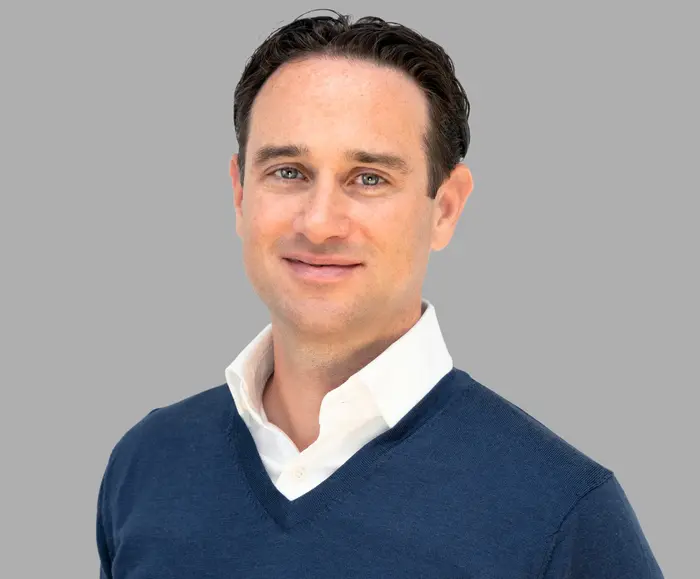
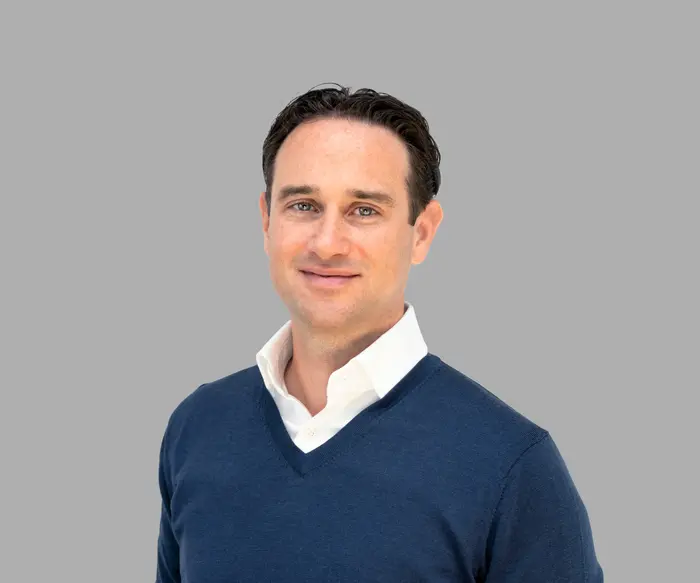
Give both portraits headroom so the hair is never cut
New portrait files from the original photographs: the grey studio
background is extended above the heads and the frame is cropped
wider, so Dr. Manuel Meder's and Dr. Michael Tal's hair shows whole.

Claude-Session: https://claude.ai/code/session_011hTmpdeiM8q9xcfzwJvZk6

diff --git a/meder-tal-v2/team.html b/meder-tal-v2/team.html
@@ -97,15 +97,15 @@
         <div class="btn-row"><a class="btn btn--primary" href="kontakt.html#anfrage">Erstgespräch vereinbaren<svg class="m-arrow" viewBox="0 0 12 12" aria-hidden="true"><path class="m-arrow__stem" d="M1 6h8"/><path class="m-arrow__head" d="M4.5 2.5 8 6l-3.5 3.5"/></svg></a><a class="btn btn--secondary" href="#meder">Die Partner ansehen</a></div>
       </div>
       <div class="hero__media hero__media--pair span-6 start-7">
-        <img src="assets/img/meder.webp" srcset="assets/img/meder-700.webp 700w, assets/img/meder.webp 1400w" sizes="(max-width: 1023px) 50vw, 25vw" alt="Porträt von Dr. Manuel Meder" width="1400" height="1158" fetchpriority="high">
-        <img src="assets/img/tal.webp" srcset="assets/img/tal-700.webp 700w, assets/img/tal.webp 1400w" sizes="(max-width: 1023px) 50vw, 25vw" alt="Porträt von Dr. Michael Tal" width="1400" height="1157" fetchpriority="high">
+        <img src="assets/img/meder.webp" srcset="assets/img/meder-700.webp 700w, assets/img/meder.webp 1400w" sizes="(max-width: 1023px) 50vw, 25vw" alt="Porträt von Dr. Manuel Meder" width="1400" height="1167" fetchpriority="high">
+        <img src="assets/img/tal.webp" srcset="assets/img/tal-700.webp 700w, assets/img/tal.webp 1400w" sizes="(max-width: 1023px) 50vw, 25vw" alt="Porträt von Dr. Michael Tal" width="1400" height="1167" fetchpriority="high">
       </div>
     </div></div>
   </section>
 
   <section class="section member" id="meder" aria-labelledby="meder-h">
     <div class="wrap grid grid--middle">
-      <div class="frame frame--photo member__photo span-6"><img class="frame__img" src="assets/img/meder.webp" srcset="assets/img/meder-700.webp 700w, assets/img/meder.webp 1400w" sizes="(max-width: 1023px) 100vw, 50vw" alt="Porträt von Dr. Manuel Meder" width="1400" height="1158" loading="lazy" data-source="client" data-subject="person"></div>
+      <div class="frame frame--photo member__photo span-6"><img class="frame__img" src="assets/img/meder.webp" srcset="assets/img/meder-700.webp 700w, assets/img/meder.webp 1400w" sizes="(max-width: 1023px) 100vw, 50vw" alt="Porträt von Dr. Manuel Meder" width="1400" height="1167" loading="lazy" data-source="client" data-subject="person"></div>
       <div class="member__info span-5 start-8">
         <h2 id="meder-h">Dr. Manuel Meder</h2>
         <p class="t-lead muted">Rechtsanwalt, Gründer und Geschäftsführer</p>
@@ -120,7 +120,7 @@
 
   <section class="section member member--flip" id="tal" aria-labelledby="tal-h">
     <div class="wrap grid grid--middle">
-      <div class="frame frame--photo member__photo span-6 start-7"><img class="frame__img" src="assets/img/tal.webp" srcset="assets/img/tal-700.webp 700w, assets/img/tal.webp 1400w" sizes="(max-width: 1023px) 100vw, 50vw" alt="Porträt von Dr. Michael Tal" width="1400" height="1158" loading="lazy" data-source="client" data-subject="person"></div>
+      <div class="frame frame--photo member__photo span-6 start-7"><img class="frame__img" src="assets/img/tal.webp" srcset="assets/img/tal-700.webp 700w, assets/img/tal.webp 1400w" sizes="(max-width: 1023px) 100vw, 50vw" alt="Porträt von Dr. Michael Tal" width="1400" height="1167" loading="lazy" data-source="client" data-subject="person"></div>
       <div class="member__info span-5">
         <h2 id="tal-h">Dr. Michael Tal</h2>
         <p class="t-lead muted">Rechtsanwalt, Gründer und Geschäftsführer</p>

diff --git a/meder-tal-v2/index.html b/meder-tal-v2/index.html
@@ -174,12 +174,12 @@
       </div>
       <div class="grid">
         <a class="tile partner-tile span-6" href="team.html#meder">
-          <div class="frame frame--photo partner-tile__photo"><img class="frame__img" src="assets/img/meder-700.webp" srcset="assets/img/meder-700.webp 700w, assets/img/meder.webp 1400w" sizes="(max-width: 639px) 100vw, 50vw" alt="Porträt von Dr. Manuel Meder" width="700" height="579" loading="lazy" data-source="client" data-subject="person"></div>
+          <div class="frame frame--photo partner-tile__photo"><img class="frame__img" src="assets/img/meder-700.webp" srcset="assets/img/meder-700.webp 700w, assets/img/meder.webp 1400w" sizes="(max-width: 639px) 100vw, 50vw" alt="Porträt von Dr. Manuel Meder" width="700" height="583" loading="lazy" data-source="client" data-subject="person"></div>
           <span class="t-card">Dr. Manuel Meder</span>
           <span class="t-small muted">Rechtsanwalt, Gründer und Geschäftsführer</span>
         </a>
         <a class="tile partner-tile span-6" href="team.html#tal">
-          <div class="frame frame--photo partner-tile__photo"><img class="frame__img" src="assets/img/tal-700.webp" srcset="assets/img/tal-700.webp 700w, assets/img/tal.webp 1400w" sizes="(max-width: 639px) 100vw, 50vw" alt="Porträt von Dr. Michael Tal" width="700" height="579" loading="lazy" data-source="client" data-subject="person"></div>
+          <div class="frame frame--photo partner-tile__photo"><img class="frame__img" src="assets/img/tal-700.webp" srcset="assets/img/tal-700.webp 700w, assets/img/tal.webp 1400w" sizes="(max-width: 639px) 100vw, 50vw" alt="Porträt von Dr. Michael Tal" width="700" height="583" loading="lazy" data-source="client" data-subject="person"></div>
           <span class="t-card">Dr. Michael Tal</span>
           <span class="t-small muted">Rechtsanwalt, Gründer und Geschäftsführer</span>
         </a>

diff --git a/meder-tal-v2/assets/site.css b/meder-tal-v2/assets/site.css
@@ -290,8 +290,8 @@ html.mt-pre .hero-cine__plate { clip-path: inset(13% 0% 13% 0%); }
 .footer.closing.g2 .footer__giant { margin-top: var(--s-7); }
 
 /* portraits shown whole: every frame takes the photograph's own ratio (1400 x 1158), so nothing is cut */
-.partner-tile__photo, .member__photo { aspect-ratio: 1400 / 1158; height: auto; }
+.partner-tile__photo, .member__photo { aspect-ratio: 1400 / 1167; height: auto; }
 .partner-tile__photo .frame__img, .member__photo .frame__img { object-fit: cover; object-position: 50% 50%; }
 .hero__media--pair { height: auto; min-height: 0; align-self: center; background: none; gap: var(--s-3); overflow: visible; border-radius: 0; }
-.hero__media--pair > img { position: static; inset: auto; width: 100%; height: auto; aspect-ratio: 1400 / 1158; object-fit: cover; object-position: 50% 50%;
+.hero__media--pair > img { position: static; inset: auto; width: 100%; height: auto; aspect-ratio: 1400 / 1167; object-fit: cover; object-position: 50% 50%;
   border-radius: var(--r-lg); background: #aeaeae; }
